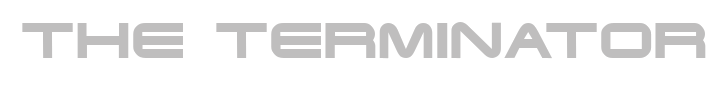
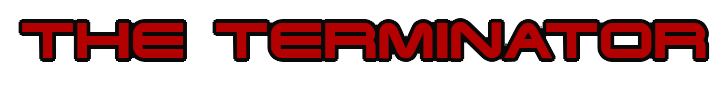
Colores

diff --git a/estilo.css b/estilo.css
@@ -2,7 +2,7 @@ body { /* a = 0 ; b = 0 ; c = 1*/
       font: 400 15px Tahoma; /*Familia sans-serif*/
       line-height: 1.8;
       color: #030101;
-      background-color:#9AE0CB;
+      background-color:#E5E4E4;
       display: grid;
       grid-template-columns: repeat(3, 1fr);
       grid-gap: 10px;
@@ -14,7 +14,7 @@ header{ /* a = 0 ; b = 0 ; c =1 */
 }
 h1 { /* a = 0 ; b = 0 ; c = 1 */
       background-color:#030101;
-      background-image: url("multimedia/terminator.jpg");
+      background-image: url("multimedia/terminatorbyn.jpg");
       border-radius: 15px; 
       color: rgb(80, 78, 78);
       text-transform: uppercase;
@@ -28,16 +28,18 @@ h2,h3 { /* a = 0 ; b = 0 ; c = 1 */
       text-align: left;     
 }
 article{ /* a = 0 ; b = 0 ; c = 1 */
-      background-color:#4AA1F0;
-      border-radius: 15px;
       grid-column: 1 / 4;
       grid-row: 2 / 3;
 }
-aside{
-      background-color:#4AA1F0;
+aside{ /* a = 0 ; b = 0 ; c = 1 */
+      background-color:#030101;
+      color: #fff;
       border-radius: 15px;
       grid-column: 4;
       grid-row: 2 / 3;
+}
+aside h3{ /* a = 0 ; b = 0 ; c = 1 */
+      color: #fff;
 }
 p{ /* a = 0 ; b = 0 ; c = 1 */
       padding: 0.2% 3%

diff --git a/html/reparto.html b/html/reparto.html
@@ -87,7 +87,7 @@
         </section>
     </article>
 
-    <footer>
+    <footer class="full-width">
         <a href="https://validator.w3.org/check?uri=referer">
             <img src="../images/HTML5.png" alt=" HTML5 Válido!" /></a>
             

diff --git a/html/sinopsis.html b/html/sinopsis.html
@@ -48,7 +48,7 @@
         </section>
     </article>
 
-    <footer>
+    <footer class="full-width">
         <a href="https://validator.w3.org/check?uri=referer">
             <img src="../images/HTML5.png" alt=" HTML5 Válido!" /></a>
             
